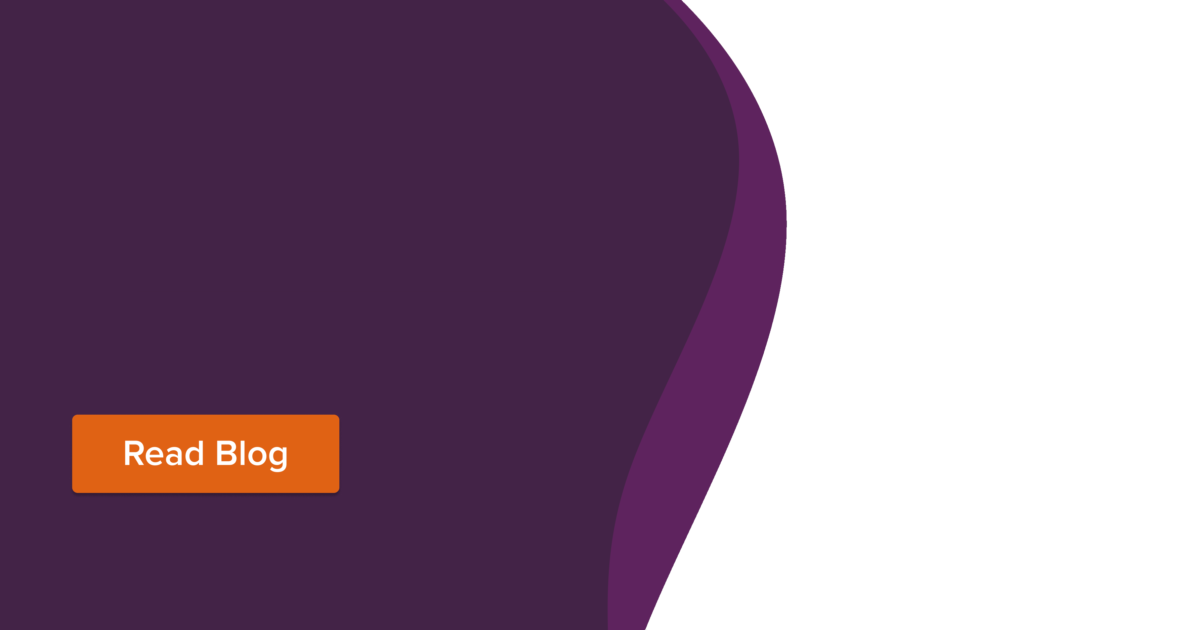
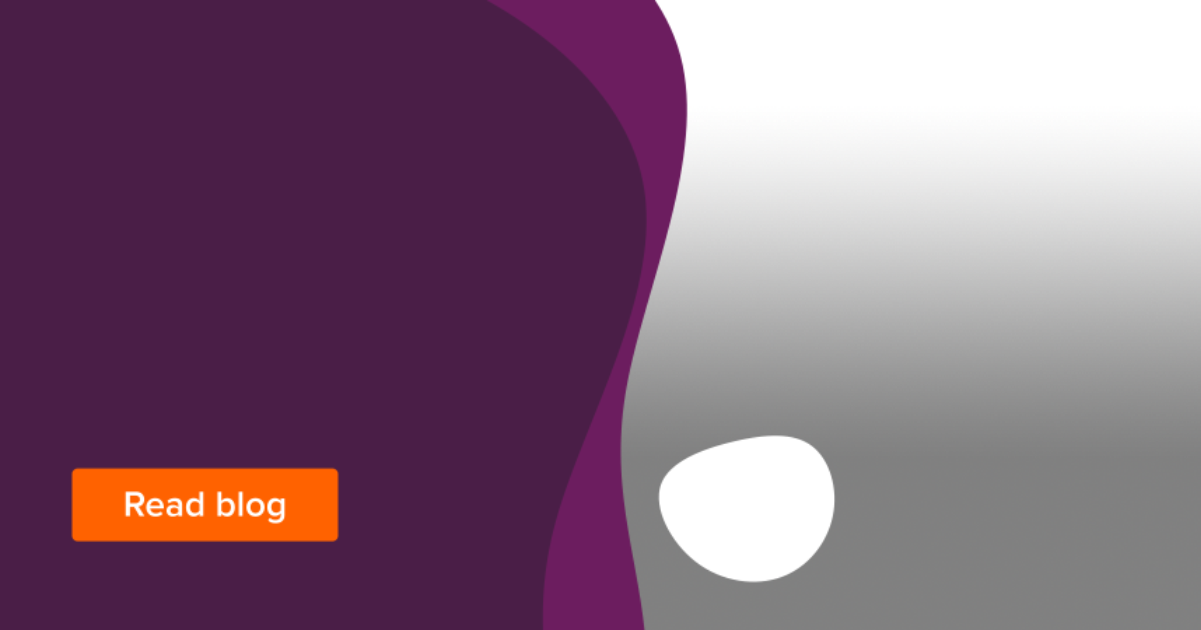
feat: use egg shaped mask for profile picture

diff --git a/src/binx_og_image_generator/generator.py b/src/binx_og_image_generator/generator.py
@@ -108,22 +108,25 @@ class BinxGenerator(Generator):
 class XebiaGenerator(Generator):
     def __init__(self, **kwargs):
         super().__init__(**kwargs)
+        self.medium_font = "proximanova-medium.ttf"
         self.bold_font = "proximanova-bold.ttf"
         self.logo = Image.open(os.path.join(data_dir, "images", "xebia-logo-white.png"))
         self.overlay = Image.open(
             os.path.join(data_dir, "images", "xebia-overlay-purple.png")
         )
+        self.profile_mask = Image.open(os.path.join(data_dir, "images", "profile-mask.png")).convert("L")
+
 
     def _mask(self, img):
         img.paste(self.overlay, (0, 0), self.overlay)
         return img
 
     def _write_title(self, img):
-        x, y = (32, 32)
+        x, y = (75, 140)
         draw = ImageDraw.Draw(img)
-        font = ImageFont.truetype(os.path.join(data_dir, "fonts", self.bold_font), 64)
+        font = ImageFont.truetype(os.path.join(data_dir, "fonts", self.bold_font), 52)
         _, _, width, height = font.getbbox(self.title)
-        lines = textwrap.wrap(self.title, width=24)
+        lines = textwrap.wrap(self.title, width=23)
         for line in lines:
             draw.text((x, y), line, font=font, fill=(255, 255, 255))
             y += height
@@ -133,21 +136,24 @@ class XebiaGenerator(Generator):
         draw = ImageDraw.Draw(img)
         font = ImageFont.truetype(os.path.join(data_dir, "fonts", self.medium_font), 36)
         ascent, descent = font.getmetrics()
+        first_name = self.author.split()[0]
+        last_name = " ".join(self.author.split()[1:])
         text_width = font.getmask(self.author).getbbox()[2]
         text_height = font.getmask(self.author).getbbox()[3] + descent
+        position = (width - 320, height - 170)
         draw.text(
-            (width - text_width - 32, height - 36 - text_height),
-            self.author,
+            position,
+            first_name,
             font=font,
             fill=(255, 255, 255),
         )
 
-    def _write_logo(self, img):
-        x, y = img.size
-        logo_x, logo_y = self.logo.size
-        logo = self.logo.resize((247, int(247 / logo_x * logo_y)))
-        logo_x, logo_y = logo.size
-        img.paste(logo, (x - logo_x - 32, 35), logo)
+        draw.text(
+            (position[0], position[1] + text_height),
+            last_name,
+            font=font,
+            fill=(255, 255, 255),
+        )
 
     def _add_profile_picture(self, img):
         if not self.email:
@@ -158,11 +164,11 @@ class XebiaGenerator(Generator):
             + hashlib.md5(self.email.lower().encode("utf8")).hexdigest()
         )
 
-        response = requests.get(url, params={"size": 150, "d": "404"})
+        response = requests.get(url, params={"size": self.profile_mask.size[0], "d": "404"})
         if response.status_code != 200:
             log.warning(
                 "failed to retrieve profile image for %s, %s",
-                email,
+                self.email,
                 response.status_code,
             )
             return
@@ -171,18 +177,15 @@ class XebiaGenerator(Generator):
         if picture.mode != "RGB":
             picture = picture.convert("RGB")
 
-        image_array = np.array(picture)
-        round_image = Image.new("L", picture.size, 0)
-        draw = ImageDraw.Draw(round_image)
-        draw.pieslice([0, 0, picture.size[0], picture.size[1]], 0, 360, fill=255)
-        round_image_array = np.array(round_image)  # conver to numpy array
+        rgb = np.array(picture)
+        opacity = np.array(self.profile_mask)
         image_array = np.dstack(
-            (image_array, round_image_array)
-        )  # add alpha channel to the image
-        final_image = Image.fromarray(image_array)
+            (rgb, opacity)
+        )
+        final_image = Image.fromarray(image_array).resize(size=(170,170))
 
         x, y = img.size
-        img.paste(final_image, (x - 450, y - 220 - 32), final_image)
+        img.paste(final_image, (x - 532, y - 218), final_image)
         return
 
     def generate(
@@ -190,7 +193,6 @@ class XebiaGenerator(Generator):
         img,
     ):
         img = self._mask(img)
-        self._write_logo(img)
         self._write_title(img)
         self._write_author(img)
 
